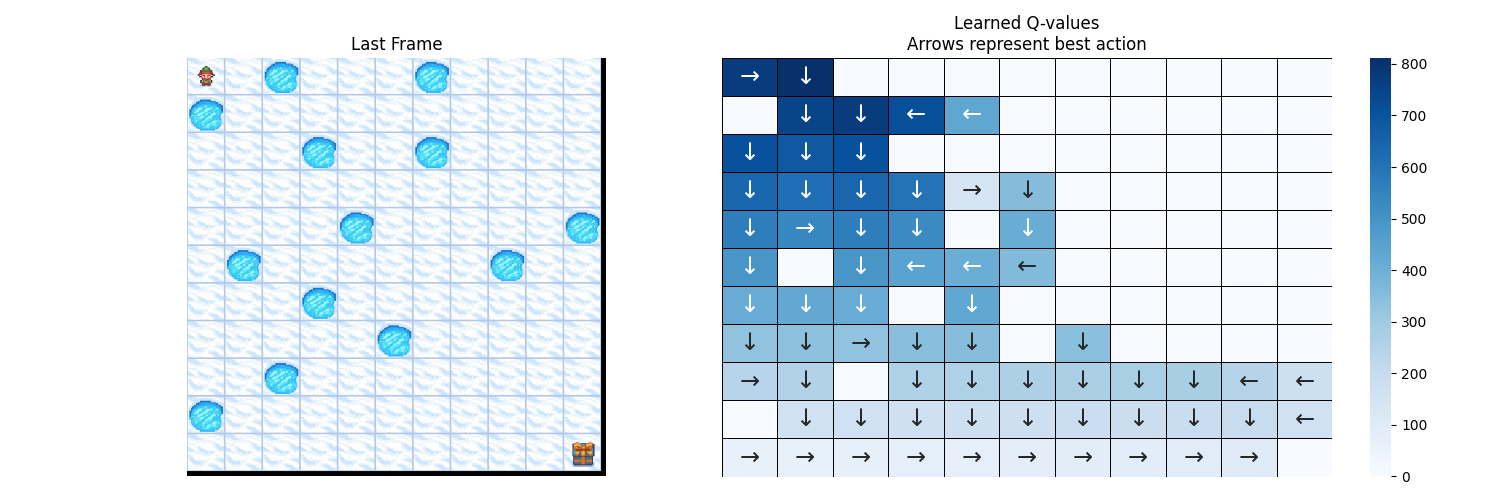
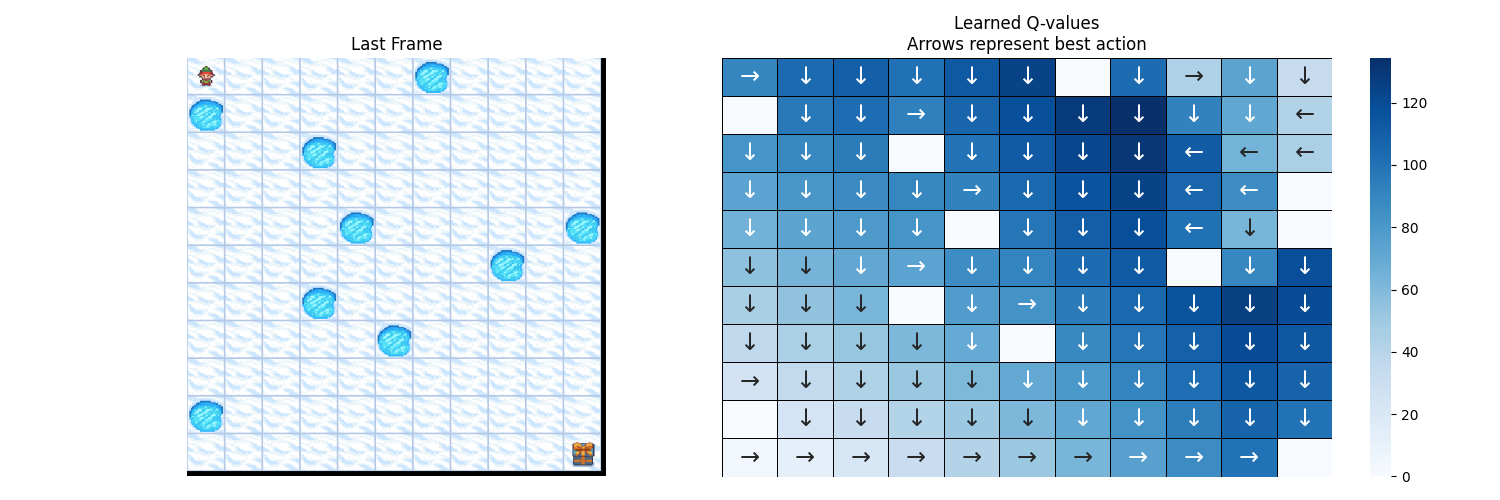
Fix espilon decay and reward system

diff --git a/main.py b/main.py
@@ -33,8 +33,8 @@ gamma = 0.95  # Discount factor (retains focus on long-term rewards)
 epsilon = 0.1  # Initial exploration rate
 epsilon_decay = 0.1  # Slower decay for more exploration
 min_epsilon = 0.1  # Minimum exploration rate
-episodes = 5000  # Increased episodes for better learning on large maps
-max_steps = 500  # Maximum steps per episode
+episodes = 30000  # Increased episodes for better learning on large maps
+max_steps = 1000  # Maximum steps per episode
 
 episode_rewards = []
 states_visited = []
